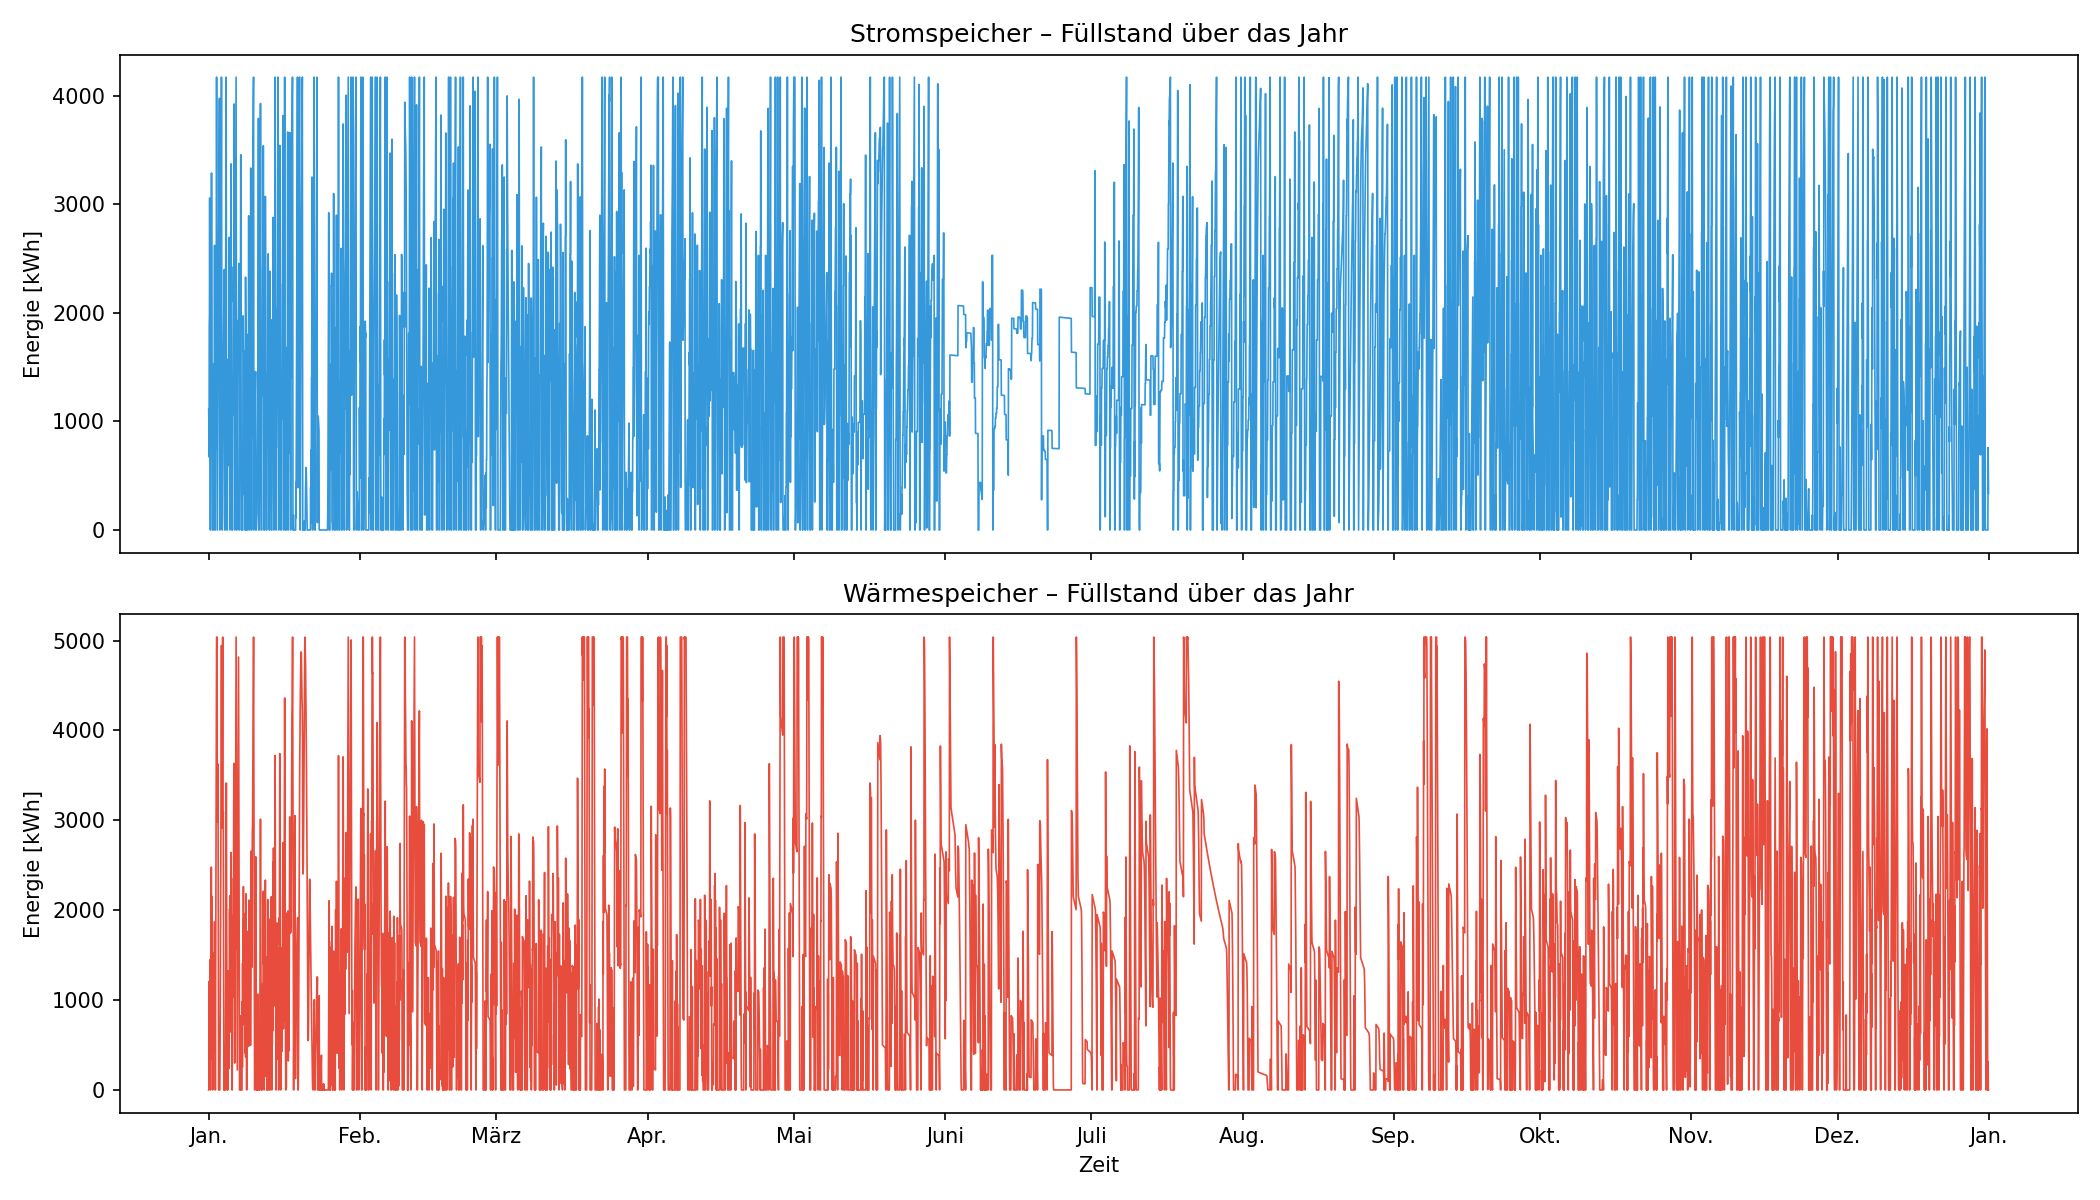
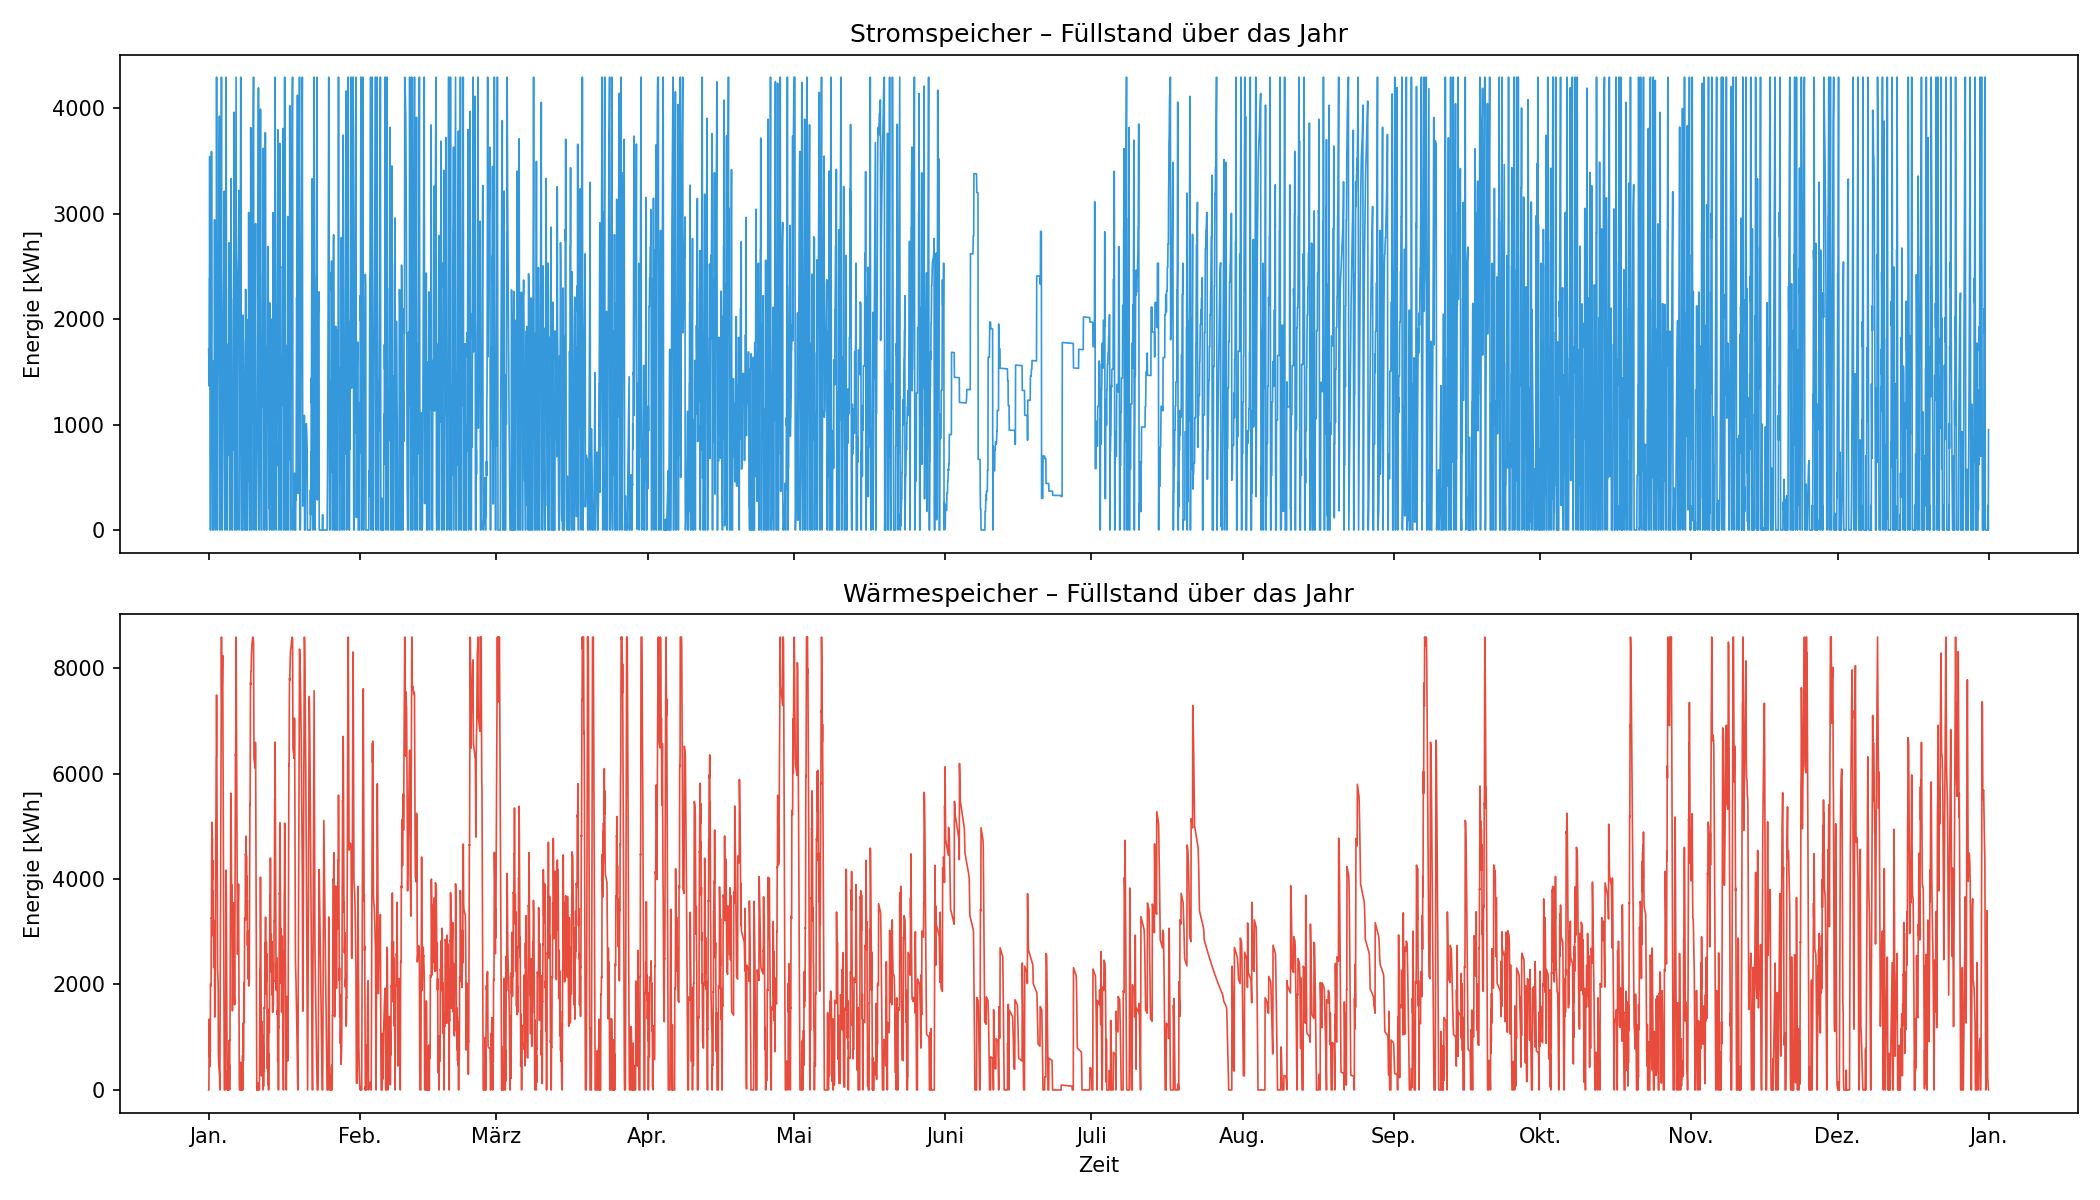
Anpassungen

diff --git a/gh_konventionell.py b/gh_konventionell.py
@@ -27,14 +27,7 @@ df_strombedarf.set_index('datetime', inplace=True)
 # 2. Parameter definieren
 # ============================================================
 
-# Wärmespeicher
-waermespeicher_kapazitaet = 5000            # kWh
-capital_cost_waermespeicher = 10             # €/kWh/a als Annuität
-waermespeicher_lifetime = 25                # Jahre
-waermespeicher_standing_loss = 0.005         # Verlust pro Stunde
-
 # Gaskessel
-gaskessel_leistung = 1500                   # kW
 gaskessel_wirkungsgrad = 0.95               # 95%
 capital_cost_gaskessel = 7                  # €/kW/a als Annuität
 gaskessel_lifetime = 20                     # Jahre
@@ -88,7 +81,7 @@ network.add('Load', name='Waermelast', bus='Waerme', p_set=waermebedarf)
 network.add('Generator',
             name='Netz_Import',
             bus='Strom',
-            p_nom=10000,
+            p_nom=np.inf,
             marginal_cost=strom_preis,
             carrier='grid')
 
@@ -100,23 +93,12 @@ network.add('Generator',
             marginal_cost=gas_preis,
             carrier='gas')
 
-# Wärmespeicher
-network.add('Store',
-            name='Waermespeicher',
-            bus='Waerme',
-            e_nom=waermespeicher_kapazitaet,
-            e_nom_extendable=True,
-            capital_cost=capital_cost_waermespeicher,
-            standing_loss=waermespeicher_standing_loss,
-            e_cyclic=True,
-            lifetime=waermespeicher_lifetime)
-
 # Gaskessel (Gas -> Wärme)
 network.add('Link',
             name='Gaskessel',
             bus0='Gas',
             bus1='Waerme',
-            p_nom=gaskessel_leistung,
+            p_nom_extendable=True,
             efficiency=gaskessel_wirkungsgrad,
             capital_cost=capital_cost_gaskessel,
             lifetime=gaskessel_lifetime)
@@ -171,14 +153,11 @@ print(f"Gaskosten:        {kosten_gas:>12.2f} €")
 print(f"Betriebskosten:   {operational_costs:>12.2f} €")
 
 # Jährliche Investitionskosten
-invest_cost_year_stores = network.stores.e_nom_opt * network.stores.capital_cost
-invest_cost_year_links  = network.links.p_nom_opt * network.links.capital_cost
-df_invest_cost_year     = pd.concat([invest_cost_year_stores, invest_cost_year_links]).fillna(0)
-invest_cost_year        = round(df_invest_cost_year.sum(), 2)
+invest_cost_year_gaskessel = network.links.p_nom_opt['Gaskessel'] * capital_cost_gaskessel
+invest_cost_year = round(invest_cost_year_gaskessel, 2)
 
 print(f"\n--- Jährliche Investitionskosten ---")
-print(df_invest_cost_year)
-print(f"\nJährliche Investitionskosten: {invest_cost_year:.2f} €")
+print(f"Gaskessel:        {invest_cost_year:>12.2f} €")
 
 # Gesamtkosten pro Jahr (= Betriebskosten + Investitions-Annuitäten)
 gesamt_kosten = operational_costs + invest_cost_year
@@ -187,12 +166,7 @@ print(f"Betriebskosten:               {operational_costs:>12.2f} €")
 print(f"Jährliche Investitionskosten:  {invest_cost_year:>12.2f} €")
 print(f"Gesamtkosten pro Jahr:         {gesamt_kosten:>12.2f} €")
 
-# Wärmespeicher
-print("\n--- Wärmespeicher ---")
-speicher_e = network.stores_t.e['Waermespeicher']
-print(f"Durchschnitt:     {speicher_e.mean():>12.2f} kWh")
-print(f"Maximum:          {speicher_e.max():>12.2f} kWh")
-print(f"Minimum:          {speicher_e.min():>12.2f} kWh")
+
 
 print("\n" + "=" * 80)
 print("Optimierung erfolgreich abgeschlossen!")

diff --git a/vergleich.py b/vergleich.py
@@ -50,8 +50,8 @@ windleistung = df_wind.loc[zeitindex, 'Wind_kW']
 
 print("KONVENTIONELLES SYSTEM - Optimierung läuft...")
 
-strom_preis = 0.25
-gas_preis = 0.08
+strom_preis = 0.1361
+gas_preis = 0.03
 
 n_konv = pypsa.Network()
 n_konv.set_snapshots(zeitindex)
@@ -64,16 +64,12 @@ n_konv.add('Load', name='Stromlast', bus='Strom', p_set=strombedarf)
 n_konv.add('Load', name='Waermelast', bus='Waerme', p_set=waermebedarf)
 
 n_konv.add('Generator', name='Netz_Import', bus='Strom',
-           p_nom=10000, marginal_cost=strom_preis, carrier='grid')
+           p_nom=np.inf, marginal_cost=strom_preis, carrier='grid')
 n_konv.add('Generator', name='Gas_Versorgung', bus='Gas',
            p_nom=5000, marginal_cost=gas_preis, carrier='gas')
 
-n_konv.add('Store', name='Waermespeicher', bus='Waerme',
-           e_nom_extendable=True, capital_cost=10,
-           standing_loss=0.005, e_cyclic=True, lifetime=25)
-
 n_konv.add('Link', name='Gaskessel', bus0='Gas', bus1='Waerme',
-           p_nom=1500, efficiency=0.95,
+           p_nom_extendable=True, efficiency=0.95,
            capital_cost=7, lifetime=20)
 
 n_konv.optimize(solver_name='gurobi')
@@ -85,9 +81,7 @@ konv_strom_kosten = konv_strom_netz * strom_preis
 konv_gas_kosten = konv_gas_kessel * gas_preis
 konv_betriebskosten = konv_strom_kosten + konv_gas_kosten
 
-konv_invest_year_stores = n_konv.stores.e_nom_opt * n_konv.stores.capital_cost
-konv_invest_year_links  = n_konv.links.p_nom_opt * n_konv.links.capital_cost
-konv_invest_year = konv_invest_year_stores.sum() + konv_invest_year_links.sum()
+konv_invest_year = n_konv.links.p_nom_opt['Gaskessel'] * 7
 konv_gesamt_jahr = konv_betriebskosten + konv_invest_year
 
 # ============================================================
@@ -97,7 +91,7 @@ konv_gesamt_jahr = konv_betriebskosten + konv_invest_year
 print("ZUKUNFTSSYSTEM - Optimierung läuft...")
 
 wind_nennleistung_vergleich = 6000
-netz_import_kosten = 0.25
+netz_import_kosten = 0.1361
 
 wind_p_max_pu = (windleistung / wind_nennleistung_vergleich).clip(lower=0, upper=1)
 
@@ -267,8 +261,8 @@ fig, ax = plt.subplots(figsize=(10, 6))
 x = np.arange(2)
 breite = 0.5
 
-# Konventionell: Strom + Gas + Invest
-konv_stack = [konv_strom_kosten, konv_gas_kosten, konv_invest_year]
+# Konventionell: Strom + Gas (keine Invest)
+konv_stack = [konv_strom_kosten, konv_gas_kosten, 0]
 # Zukunft: Stromimport + Invest
 zuk_stack = [zuk_kosten_import, 0, zuk_invest_year]
 
@@ -280,7 +274,9 @@ p3 = ax.bar(x, [konv_stack[2], zuk_stack[2]], breite,
             color='#3498db', label='Investitionskosten (Annuität)')
 
 # Gesamtwerte oben anzeigen
-for i, total in enumerate([konv_gesamt_jahr, zuk_gesamt_jahr]):
+konv_total = konv_betriebskosten  # nur Betriebskosten
+zuk_total = zuk_gesamt_jahr
+for i, total in enumerate([konv_total, zuk_total]):
     ax.text(i, total + 20000, f'{total:,.0f} €', ha='center', fontsize=11, fontweight='bold')
 
 ax.set_xticks(x)

diff --git a/Zukunftssystem.py b/Zukunftssystem.py
@@ -101,7 +101,6 @@ network.set_snapshots(zeitindex)
 
 # Busse
 network.add('Bus', name='Strom', carrier='strom')
-network.add('Bus', name='Wind', carrier='wind')
 network.add('Bus', name='Waerme', carrier='waerme')
 
 
@@ -109,22 +108,15 @@ network.add('Bus', name='Waerme', carrier='waerme')
 network.add('Load', name='Stromlast', bus='Strom', p_set=strombedarf)
 network.add('Load', name='Waermelast', bus='Waerme', p_set=waermebedarf)
 
-# Windkraftanlage -> Wind-Bus
+# Windkraftanlage -> Strom-Bus
 network.add('Generator',
             name='Windkraftanlage',
-            bus='Wind',
+            bus='Strom',
             p_nom_extendable=True,
             p_max_pu=wind_p_max_pu,
             capital_cost=capital_cost_wind,
             lifetime=wind_lifetime,
             carrier='wind')
-
-# Wind-Eigenverbrauch (Wind-Bus -> Strom-Bus)
-network.add('Link',
-            name='Wind_Eigenverbrauch',
-            bus0='Wind',
-            bus1='Strom',
-            p_nom_extendable=True)    #Problem war noch auf alter nennletung von windanlage
 
 # Speichen für Windenergie
 network.add('Store',
